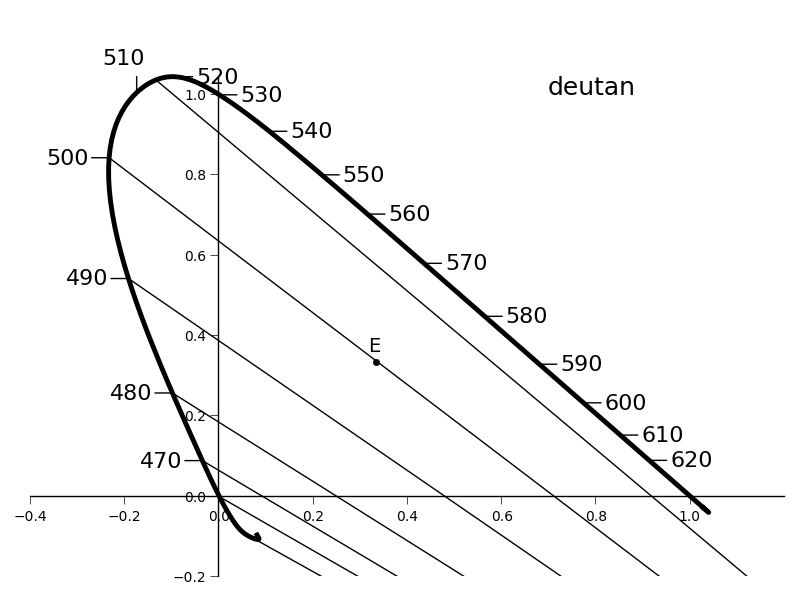
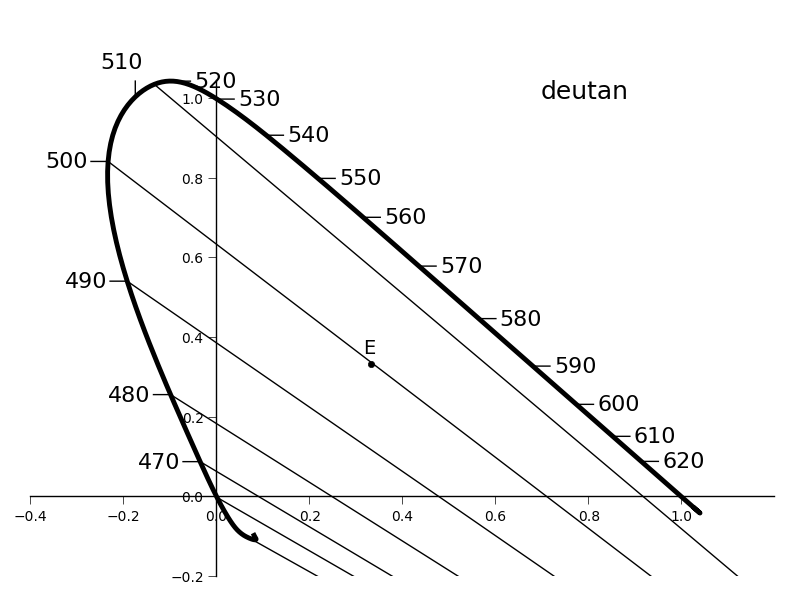
final changes to color talk, moved to talks dir

diff --git a/presentations/slides/colorModel/roadMap.html b/presentations/slides/colorModel/roadMap.html
@@ -1,0 +1,38 @@
+<!DOCTYPE html>
+<meta charset="utf-8">
+<head>
+<link rel="icon" type="image/png" href="Favicon.png" />
+<style>
+
+    @import url('../../static/style/slide.css');
+
+    body {
+      font-family: "Helvetica Neue", Helvetica, Arial, sans-serif;
+    }
+
+p {
+    font-size: 24px;
+    margin-left: 150px;
+    }
+
+.center {
+        position: relative;
+        left: 250px;
+        }
+		
+</style>
+<script type="text/javascript" src="../../static/js/slide.js"></script>
+</head>
+<body onload="formatImages(20.0);">
+    <h2 class="slideTitle">road map</h2>
+      <div>
+        <p id="first">I. Color matching, dichromacy and confusion lines</p>
+        <img src="../../static/figures/colorModel/CMFs.png" class="center">
+        <p id="second">II. Color perception: standard model</p>
+        <img src="../../static/figures/colorModel/kaiser_Neitz_BYlines.png" class="center">
+        <p id="third">III. Color perception: Neitz model</p>	
+        <img src="../../static/figures/colorModel/familyLMS_25L.png" class="center">
+    </div>
+
+</body>
+</html>

diff --git a/presentations/slides/colorModel/colorSpace.html b/presentations/slides/colorModel/colorSpace.html
@@ -585,27 +585,35 @@
         b(\lambda)\\
       \end{bmatrix}
     \]
-  </div>-->
+  </div>
 
+    <div class="JAX">
+          \[\begin{equation}
+            C = \int_ \; \bar{r}(\lambda) P(\lambda)  d\lambda \, \cdot R +
+            \int_ \; \bar{g}(\lambda) P(\lambda) d\lambda \, \cdot G + 
+            \int_ \; \bar{b}(\lambda) P(\lambda)  d\lambda \, \cdot B
+          \end{equation} \]
+    </div>-->
   <div class="JAX">
-      \[\begin{bmatrix}  
+      \[\begin{pmatrix}  
         l_r & l_g & l_b\\
         m_r & m_g & m_b\\
         s_r & s_g & s_b\\
-      \end{bmatrix} \quad
-      \begin{bmatrix}  
+      \end{pmatrix} \quad
+      \begin{pmatrix}  
         r(\lambda)\\
         g(\lambda)\\
         b(\lambda)\\
-      \end{bmatrix}
+      \end{pmatrix}
       =
-      \begin{bmatrix}  
+      \begin{pmatrix}  
         l(\lambda)\\
         m(\lambda)\\
         s(\lambda)\\
-      \end{bmatrix}
+      \end{pmatrix}
     \]
   </div>
+
   <div>
     <!--<img src="../../static/figures/colorModel/PercentL.png" id="PercentL">-->
 </div>

diff --git a/presentations/slides/colorModel/neitzModel.html b/presentations/slides/colorModel/neitzModel.html
@@ -8,6 +8,12 @@
     h5 {
         position: relative;
         left: 100px;}
+
+    #AOcones {
+            position: fixed;
+            top: 300px;
+            left: 225px;
+            }
 		
 </style>
 <script type="text/javascript" src="../../static/js/slide.js"></script>
@@ -15,23 +21,16 @@
   src="https://c328740.ssl.cf1.rackcdn.com/mathjax/latest/MathJax.js?config=TeX-AMS-MML_HTMLorMML">
 </script>
 </head>
-  <body onload="formatImages(50.0);">
+  <body onload="formatImages(150.0);">
     <h2 class="slideTitle">neitz model</h2>
       <div>
-        <h5> standard model</h3>
-        <div class="JAX">
-          \[\begin{equation}
-          BY = (M+L) - S \\
-          RG = L - M 
-          \end{equation} \]
-        </div>
-        <h5> neitz model</h3>
         <div class="JAX">
           \[\begin{equation}
           BY = (S+M) - L \\
           RG = (S+L) - M
           \end{equation} \]
         </div>
+        <img src="../../static/images/AOcones.png" id="AOcones">
 	</div>
 
   </body>

diff --git a/presentations/slides/colorModel/kaiser.html b/presentations/slides/colorModel/kaiser.html
@@ -19,10 +19,19 @@
 		
 </style>
 <script type="text/javascript" src="../../static/js/slide.js"></script>
+<script type="text/javascript"
+  src="https://c328740.ssl.cf1.rackcdn.com/mathjax/latest/MathJax.js?config=TeX-AMS-MML_HTMLorMML">
+</script>
 </head>
   <body onload="formatImages(60.0);">
     <h2 class="slideTitle">failure of the 'Standard Model'</h2>
       <div>
+        <div class="JAX">
+          \[\begin{equation}
+          BY = (M+L) - S \\
+          RG = L - M 
+          \end{equation} \]
+        </div>
         <img src="../../static/figures/colorModel/kaiser_Neitz.png" id="kaiser">
         <img src="../../static/figures/colorModel/kaiser_Neitz_BYlines.png" id="kaiser_lines">
 	</div>

diff --git a/presentations/slides/colorModel/confusionLines.html b/presentations/slides/colorModel/confusionLines.html
@@ -14,7 +14,7 @@
 	#deutan {
 		position: fixed;
 		top: 120px;
-		left: 600px;
+		right: 100px;
 		}
 		
 	#protan {
@@ -23,6 +23,11 @@
 		left: 100px;
 		}
 
+	#CIE {
+		position: fixed;
+		top: 450px;
+		right: 150px;
+		}
 		
 	</style>
 	<script type="text/javascript" src="../../static/js/slide.js"></script>
@@ -33,7 +38,8 @@
     
     <img src="../../static/figures/colorModel/tritan.png" id="tritan">
     <img src="../../static/figures/colorModel/deutan.png" id="deutan">
-	<img src="../../static/figures/colorModel/protan.png" id="protan">	
+    <img src="../../static/figures/colorModel/protan.png" id="protan">	
+    <img src="../../static/images/wikiCIE.png" id="CIE">
 
   </body>
 </html>

diff --git a/presentations/slides/colorModel/cieLMratio.html b/presentations/slides/colorModel/cieLMratio.html
@@ -22,7 +22,7 @@
 <script type="text/javascript" src="../../static/js/slide.js"></script>
 </head>
 <body onload="formatImages(60.0);">
-    <h2 class="slideTitle">L:M ratio</h2>
+    <h2 class="slideTitle">other dichromatic systems and L:M ratio</h2>
       <div>
         <img src="../../static/figures/colorModel/bluegreenFull.png" id="bluegreenFull">
         <img src="../../static/figures/colorModel/bluegreen.png" id="bluegreen">

diff --git a/presentations/slides/colorModel/neitzSpace.html b/presentations/slides/colorModel/neitzSpace.html
@@ -34,7 +34,7 @@
 </head>
 
   <body class='slide' onload="formatImages(50.0);">
-    <h2 class="slideTitle">Neitz space</h2>
+    <h2 class="slideTitle">constructing Neitz space</h2>
     
     <img src="../../static/figures/colorModel/fundamentals.png" id="fundamentals">
     <img src="../../static/figures/colorModel/CMFs.png" id="CMFs">

diff --git a/presentations/talks/colorSpace.html b/presentations/talks/colorSpace.html
@@ -21,6 +21,7 @@
 
 		var slides = [
 		  "../slides/colorModel/titleslide.html",
+             "../slides/colorModel/roadMap.html",
              "../slides/colorModel/colorSpace.html",
 		  "../slides/colorModel/neitzSpace.html",
 		  "../slides/colorModel/confusionLines.html",

diff --git a/presentations/talks/notes/colormodel.md b/presentations/talks/notes/colormodel.md
@@ -4,19 +4,42 @@
 ***
 * Not actually going to be talking about Luv space.
 * Has interesting property that distance within space is roughly uniform in terms of color discrimination.
-* However, not currently correct, for reasons that we will see.
-* Only a least squares approximation.
+* However, not currently correct, only a least squares approximation.
 
 #### Purpose
+
 * Develop a model of primate color processing. We have heard about this before. My project was to put these things into mathematical terms and see if we can predict color perception as observed experimentally.
-* We want to use color spaces to infer some principles about the underlying physiology.
+
+#### Road map
+1. Color matching, dichromacy and confusion lines.
+
+	* We want to use color spaces to infer some principles about the underlying physiology.
+	* Talk a little about dichromatic systems and the lines of confusion inherent in a dichromatic system.
+	* This will lead us to talk about unique hues.
+
+2. Color perception: standard model.
+
+	* Think about how physiological system actually performs these computations.
+	* Introduce the standard model in the field.
+	* Present an example of how this model fails to account for certain observed percepts, in particular unique he naming.
+	
+3. Color perception: Neitz model.
+
+	* Finally, think about the Neitz model of how color is processed, giving rise to perception. 
+	* Assess how well this model predicts observed color percepts.
 
 #### Color spaces
 1. Go through the demonstration.
 	* This is how color spaces were first derived.
 	* We now have complete description of cone spectral sensitivities and optical filters, allowing us to build color spaces from the ground up.
 	* Need to mention primaries here.
-2. We have developed a system of equations that permit us to specify any arbitrary color in the visible spectrum. While this might seem vague, this process demonstrates that we can create color through the linear combination of three functions.  Here we are looking at color matching functions, but as we will see momentarily, these can be derived directly from the spectral sensitivity functions with which we are all familiar.
+	
+2. We have developed a system of equations that permit us to specify any arbitrary color in the visible spectrum.
+
+	* While this might seem vague, this process demonstrates that we can create color through the linear combination of three functions.  
+	* Basically, we can add up the signals coming from the cones to create color perception.
+	* Here we are looking at color matching functions, but as we will see momentarily, these can be derived directly from the spectral sensitivity functions with which we are all familiar.
+
 3. Why should we care:
 	* How do we represent a spectrum of light in terms of perception.
 	* Of major importance for many industries. Obviously visual work such as graphics, but also every carpet, paint, desk, tile. Everything has color! Need a system to specify what we mean.
@@ -30,11 +53,20 @@
 A series of linear transformations. Spare everyone the gory details ... for now!
 
 1. Move from cones to 'fundamentals'
-2. Fundamentals to color matching data:
+
+	* Correct for lens and macula filters.
+	* These are the theoretical functions that describe how the three cones will respond to a spectrum of light.  This is all the nervous system has to interpret color.  From here we can contruct color matching functions. 
+	
+2. Fundamentals to color matching functions:
+
+	* We can find the constants necessary to move from spectral sensitivity functions to experimentally observed color perception.
+	* Not going to go into the details at this point.
 	* Normalized to equal energy white
 	* Negative lights - for now.
+
 3. Normalize
-4. Plot only x and y since Z = 1 - x - y
+
+	* This normalization provides us with a nice scenario where we can now specify color in two dimension since z = 1 - x - y: i.e. we can always find the third dimension from the other two.
 
 
 ### Color perception
@@ -56,6 +88,9 @@ Can we read cone ratios from this plot in a color normal individual?
 #### L:M ratio
 
 * Let's start by looking at the lines we just heard about. The tritan and deutan confusion lines. These are also called the spectral neutral points since they go through equal energy. 
+* As I mentioned earlier we are interested in finding the appropriate combination of L, M and S cone signals to accurately describe color perception.
+* We know that color perception is based on opponent processes.  Blue always opposes yellow, green always opposed red. 
+* Therefore, we can define dichromatic confusion lines along which these BY and RG dichromatic systems will be nulled.
 * We can define confusion lines for any arbitrary dichromatic system, which we can define as a combination of LMS cone signals.
 * Unique hues are the spectral neutral point of opposing systems (Blue-Yellow, Red-Green).
 * In a color normal individual, we posit that these spectral neutral points will be determined by the L:M cone ratio. 
@@ -72,28 +107,28 @@ Can we read cone ratios from this plot in a color normal individual?
 **Neutral points**
 
 * Here we see results from two individuals identifying unique green.
-* A large variance in unique green has been observed, but a parsimonious account of this variability has never been proposed
+* A large variance in unique green has been observed, but a parsimonious account of this variability has never been proposed.
 * Modulated by S-(L+M), which are basically non-responsive at 520nm. Would need to balance the Blue (S cones) with the L+M signal, would require a massive amplification of the blue signal relative to the L+M. 
 
 ### Building a color model
 ***
-#### Neitz model
+#### neitz model
 * Standard model - 90-95% of cones involved in red green perception and only 5-10% involved in blue yellow
 
 
 (S+M+L) - L and (S+M+L) - M 
 
-#### First Stage
+#### neitz model: first Stage
 
 * Lens and macula filters, source of variability 
 * Cone spectral sensitivity functions
 * Correct for optical filters.
 
-#### Second Stage
+#### neitz model: second Stage
 
 * Opponent mechanisms
 
-#### Third Stage
+#### neitz model: third Stage
 
 * Summation
 
